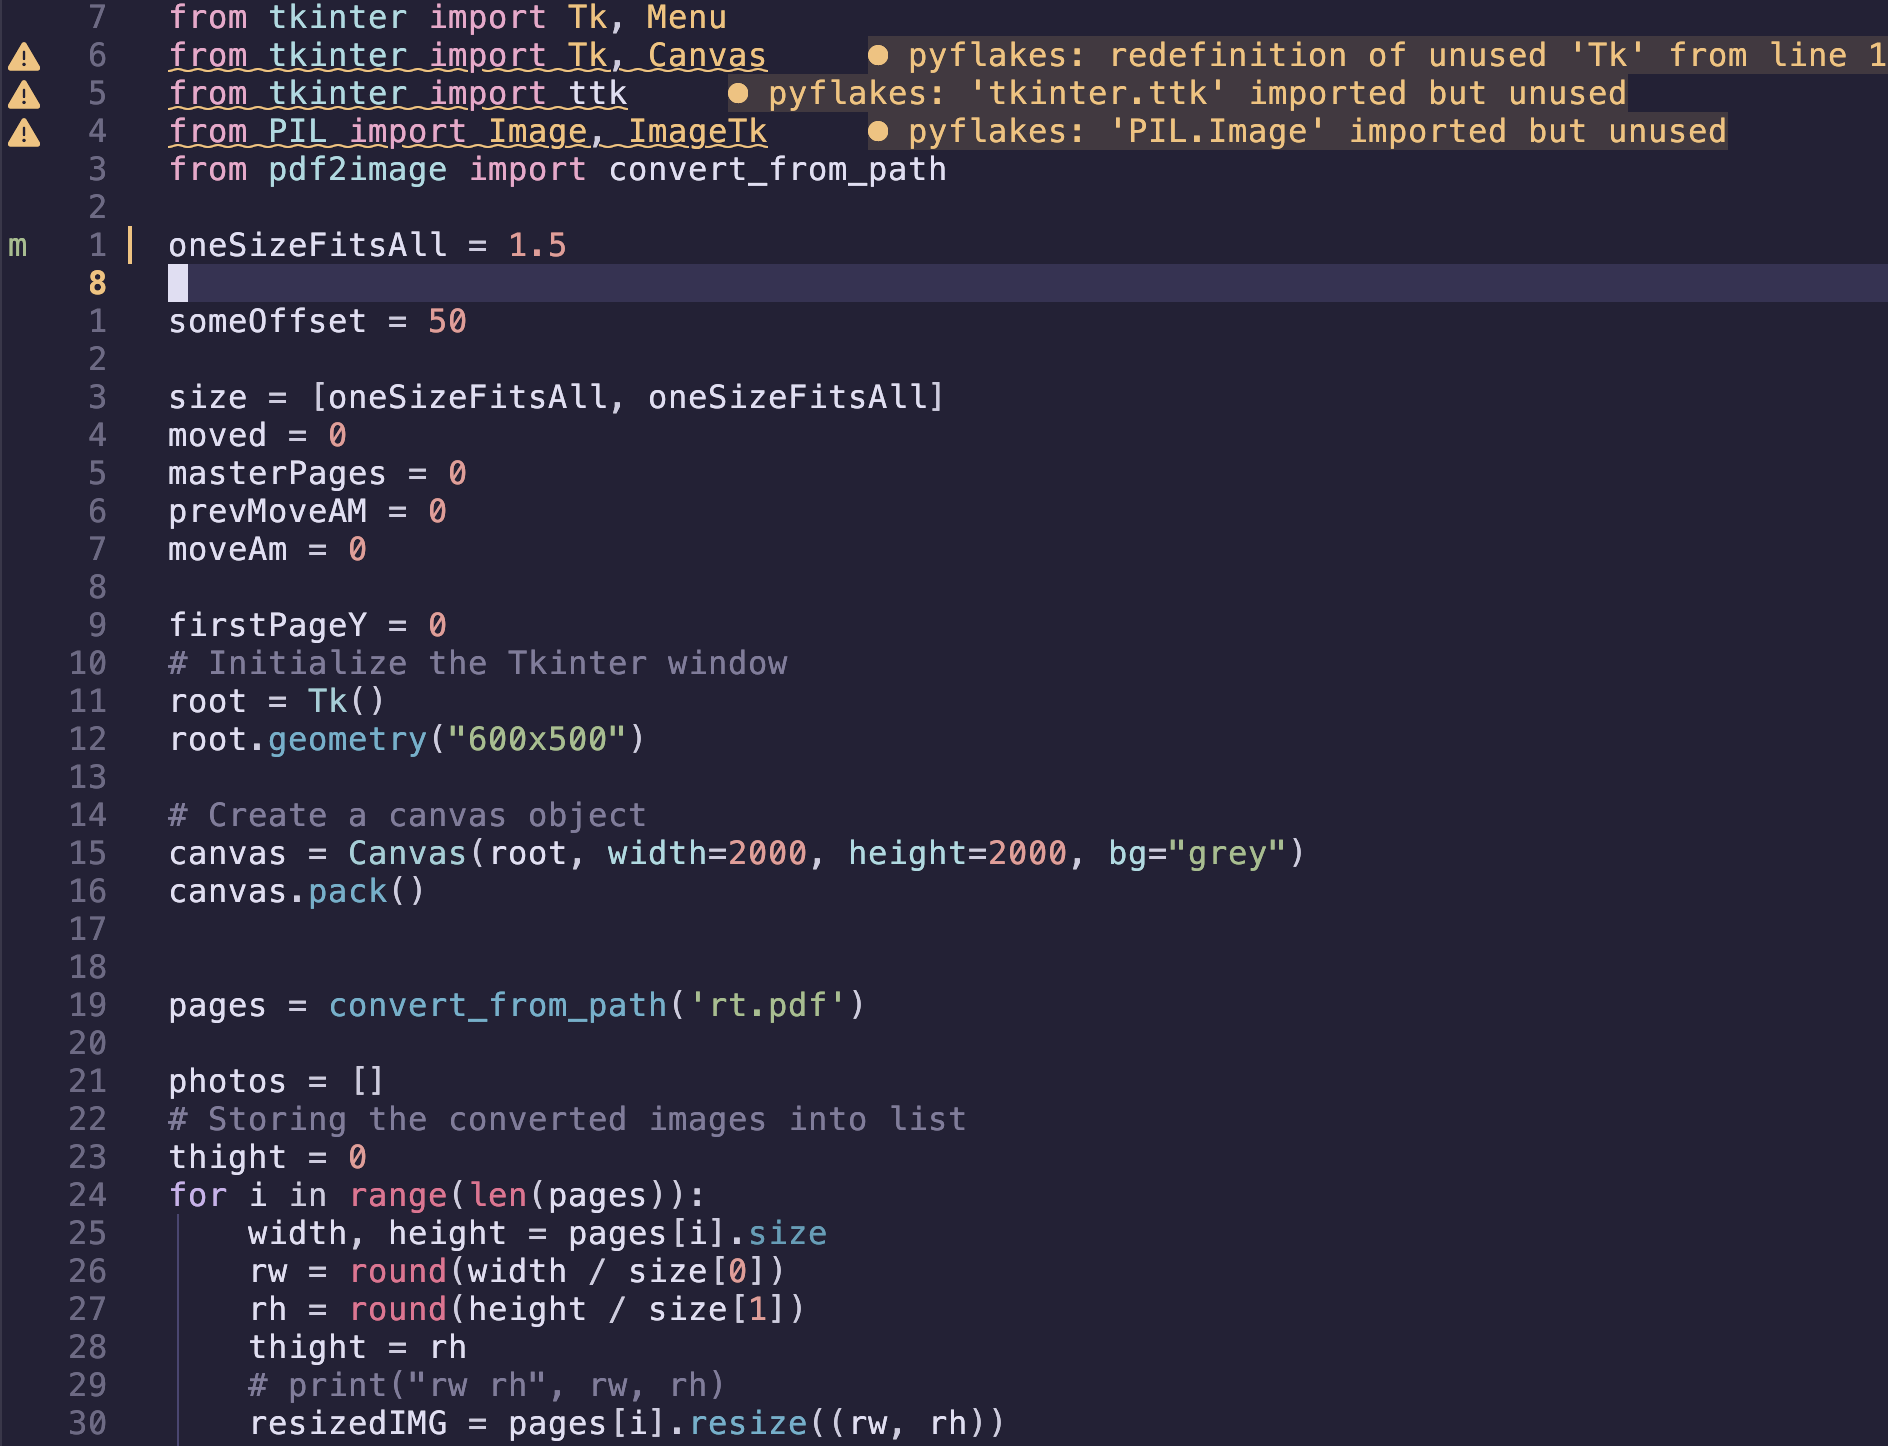
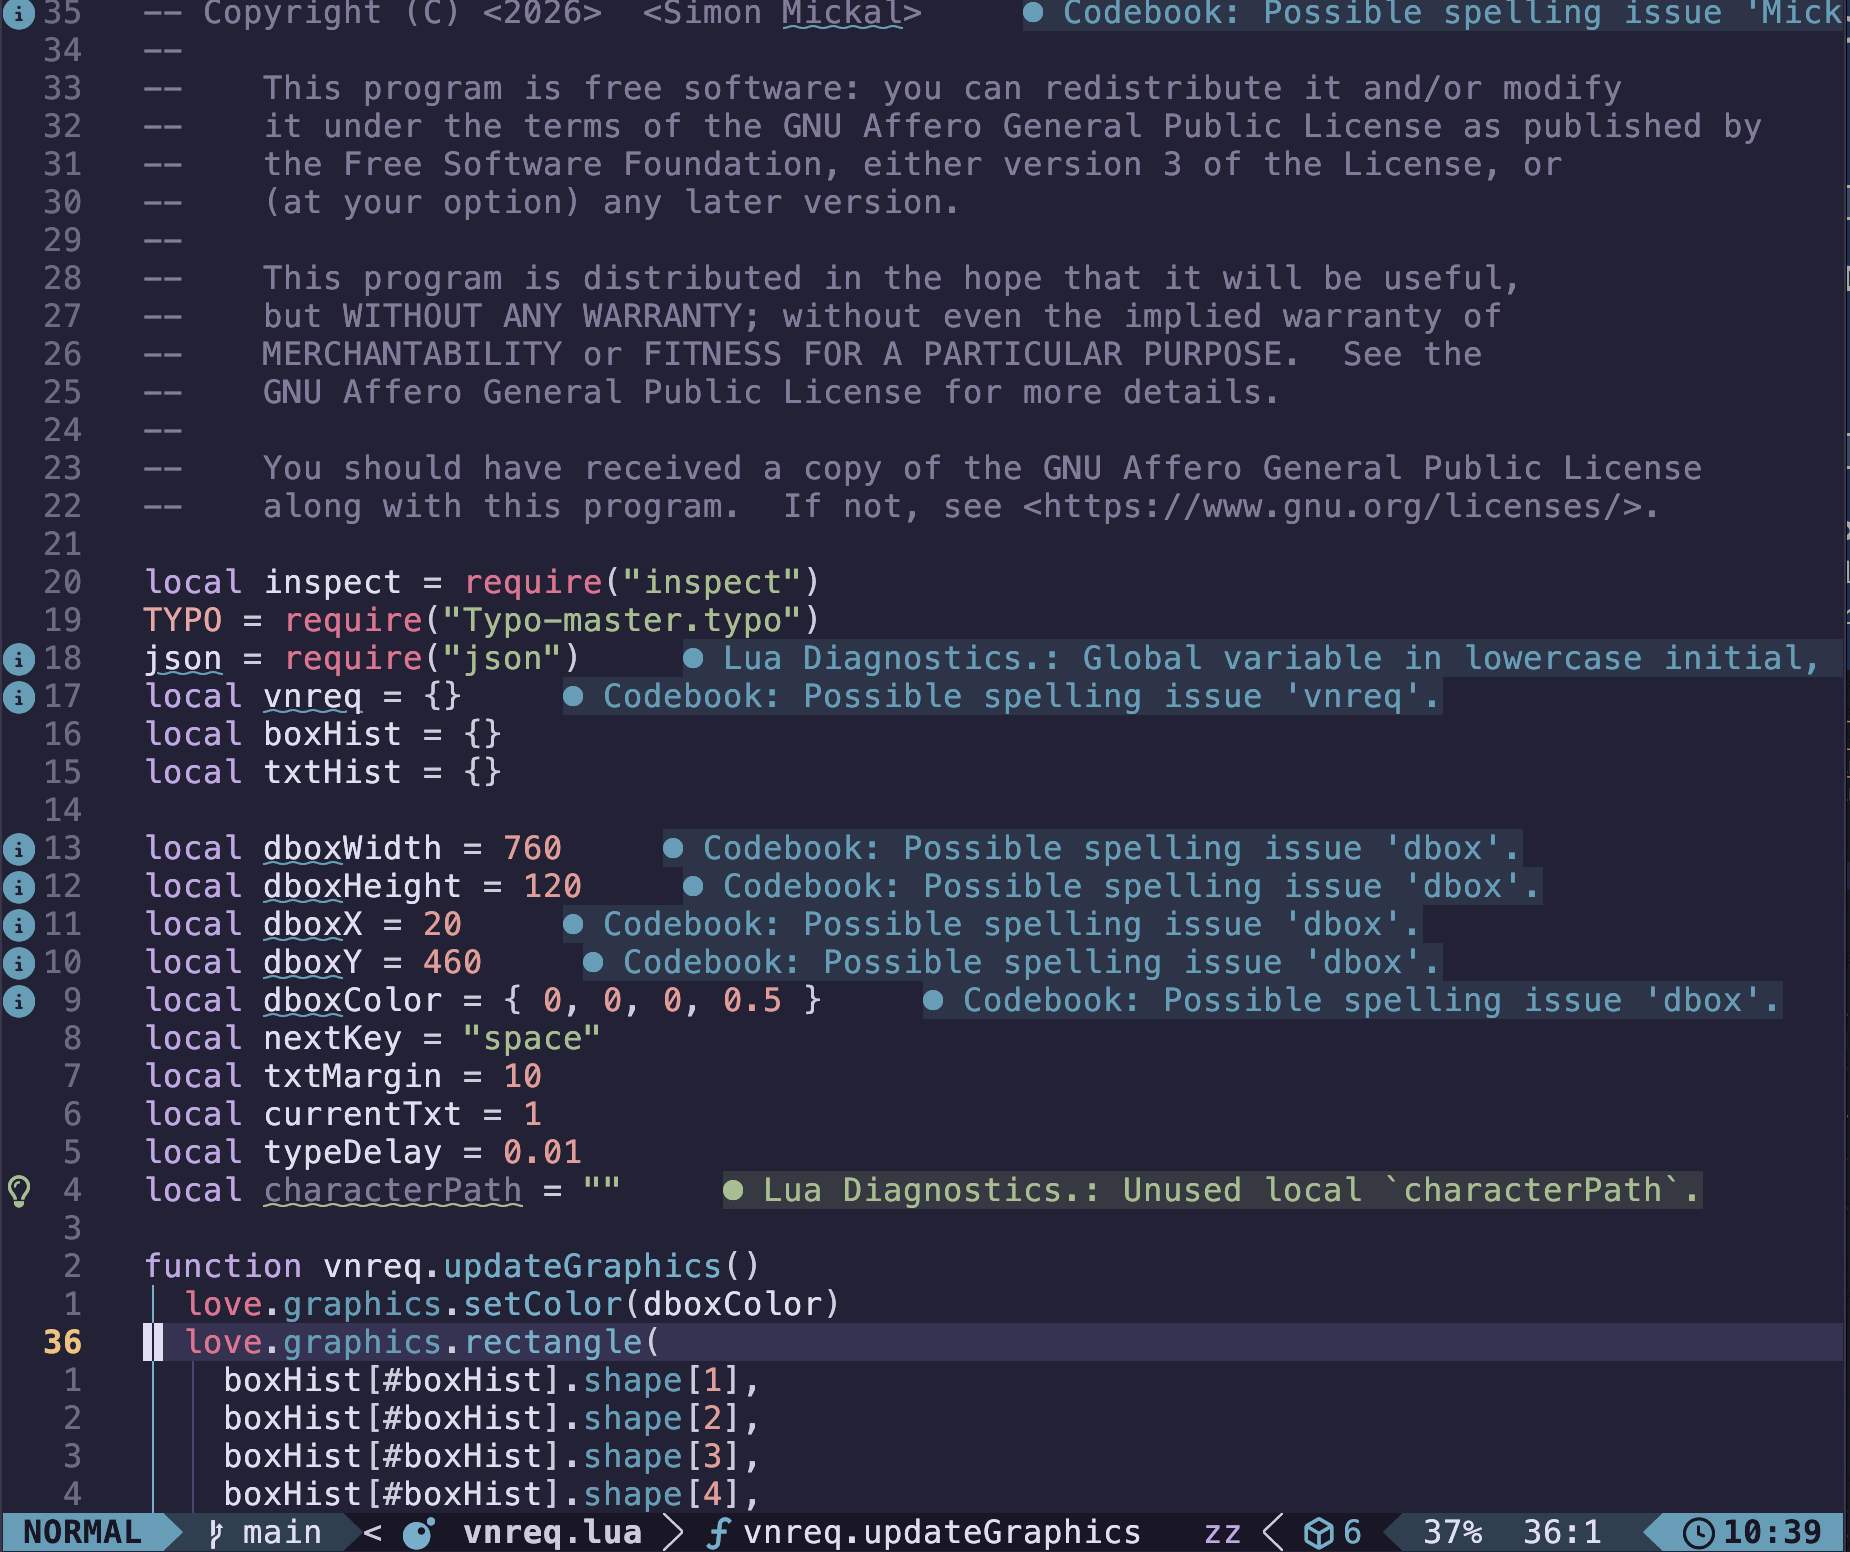
updated current project page

diff --git a/index.html b/index.html
@@ -43,11 +43,12 @@
       </a>
 
 
-      <a class="main-link-box" href="https://codeberg.org/simonM/sliverPDF/src/branch/main">
+      <a class="main-link-box" href="https://codeberg.org/simonM/Love_VN_Framework">
         <div class="main-link-current-project-div 2nd-color">
           <div>
             <h3>Current project</h3>
-            <p>I am currently working on a pdf viewer</p>
+            <p>I am currently working on a VN framework for love2d. <br>
+              VN stands for Visual Novel</p>
           </div>
           <img src="images/current project/image.png">
         </div>
